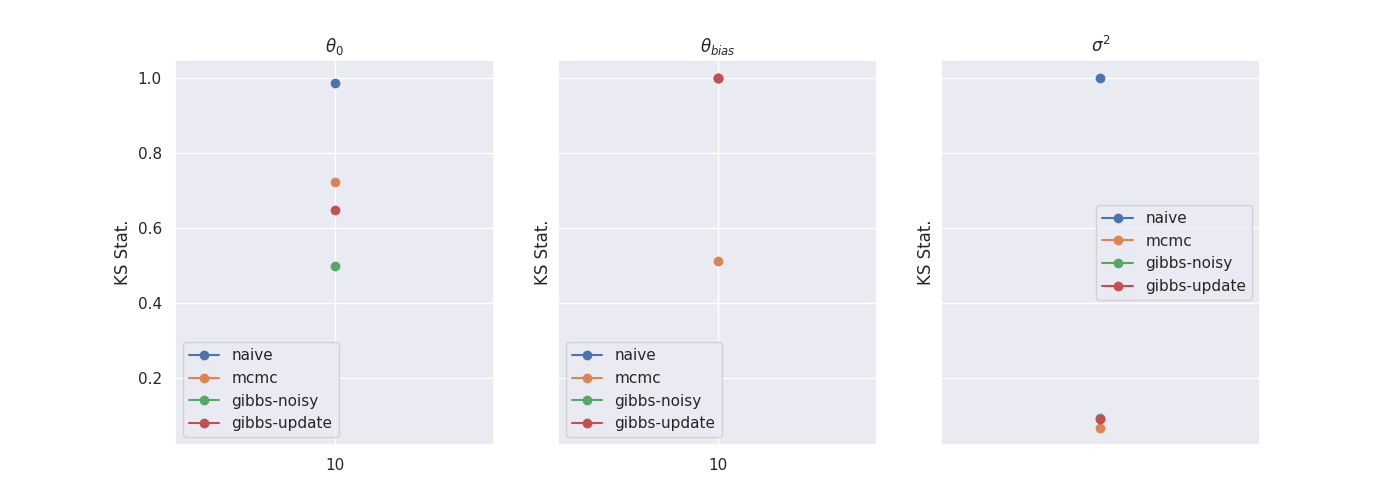
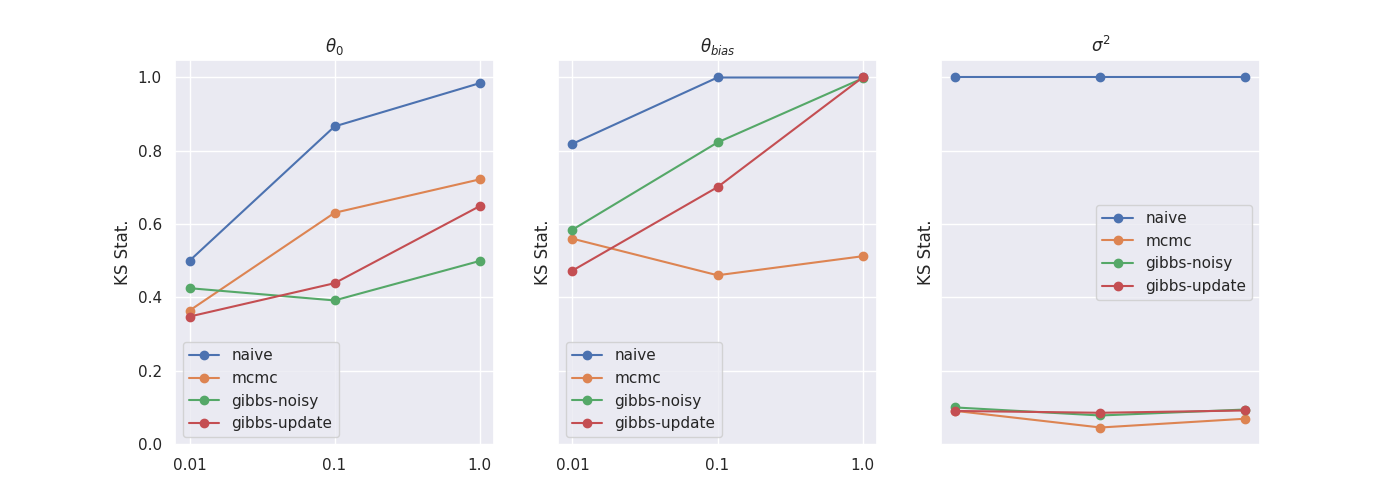
Updated 2nd plot for ks-stat

diff --git a/project4/reproducing_results/KS_statistic/new_driver.py b/project4/reproducing_results/KS_statistic/new_driver.py
@@ -111,7 +111,7 @@ def plot_experiments(methods):
     # Plot the Ks-statistic
     plot_KS_statistic(posteriors, 'n', "./figures/n/KS_statistic.png")
     # Plot the runtimes for this particular experiment
-    plot_runtimes(pd.concat(runtimes_lst, axis=0), "./figures/n/runtimes.png")
+    # plot_runtimes(pd.concat(runtimes_lst, axis=0), "./figures/n/runtimes.png")
 
 
     #--------------------------------------------------------------------------
@@ -119,7 +119,7 @@ def plot_experiments(methods):
     # Loop over the privacy setting epsilon
     #--------------------------------------------------------------------------
     runtimes_lst = []
-    params_means = pd.DataFrame(index=range(9*len(methods)), columns=['param', 'method', 'n', 'value'])
+    params_means = pd.DataFrame(index=range(9*len(methods)), columns=['param', 'method', 'e', 'value'])
     posteriors   = {}
     i = 0
 
@@ -139,20 +139,20 @@ def plot_experiments(methods):
             for param in posterior[method].columns:
                 params_means.at[i, 'param']     = param
                 params_means.at[i, 'method']    = method
-                params_means.at[i, 'n']         = N
+                params_means.at[i, 'e']         = epsilon
                 params_means.at[i, 'value']     = posterior[method][param].mean()
                 i = i + 1
 
         # reconstruct the runtimes per method per iteration
-        runtimes['n'] = N
+        runtimes['e'] = epsilon
         runtimes_lst.append(runtimes)
         # Add to the list of posterior distributions that will be used to compute the KN statistic
-        posteriors['%s'%N] = posterior
+        posteriors['%s'%epsilon] = posterior
 
     # Plot the Ks-statistic
-    plot_KS_statistic(posteriors, 'n', "./figures/epsilon/KS_statistic.png")
+    plot_KS_statistic(posteriors, 'e', "./figures/epsilon/KS_statistic.png")
     # Plot the runtimes for this particular experiment
-    plot_runtimes(pd.concat(runtimes_lst, axis=0), "./figures/epsilon/runtimes.png")
+    # plot_runtimes(pd.concat(runtimes_lst, axis=0), "./figures/epsilon/runtimes.png")
 
 
 
